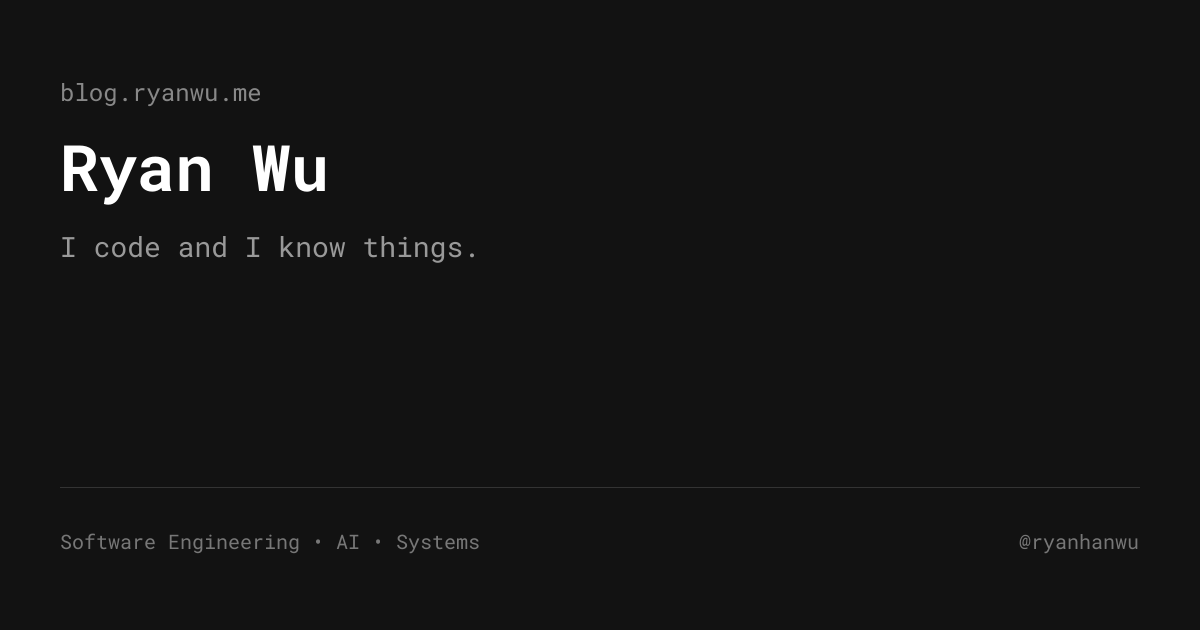
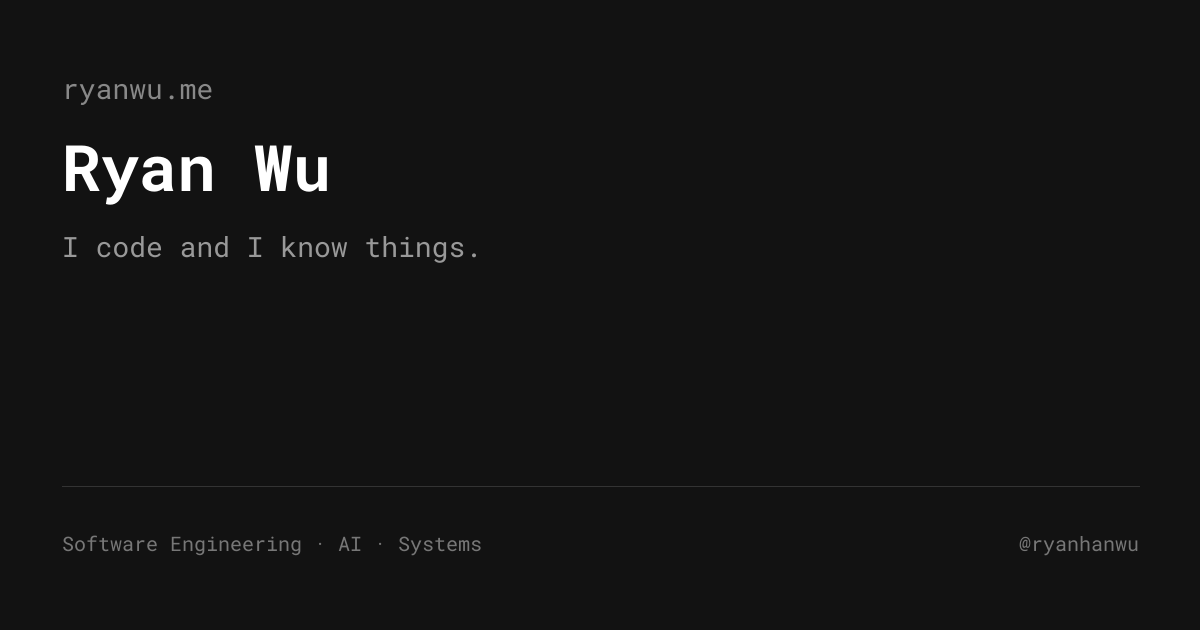
Update the blog domain to ryanwu.me
Canonical URLs, the GitHub Pages CNAME, and social images now use ryanwu.me.

diff --git a/src/pages/og-image/_ogMarkup.ts b/src/pages/og-image/_ogMarkup.ts
@@ -1,6 +1,8 @@
 import { html } from "satori-html";
 import { siteConfig } from "@/site.config";
 
+const siteHost = new URL(siteConfig.url).host;
+
 // OG image markup, use https://og-playground.vercel.app/ to design your own.
 export const ogMarkup = (title: string, pubDate: string) =>
 	html`<div tw="flex flex-col w-full h-full bg-[#121212] text-[#c9cacc] justify-between p-12">
@@ -10,6 +12,6 @@ export const ogMarkup = (title: string, pubDate: string) =>
 		</div>
 		<div tw="flex items-center justify-between w-full pt-8 border-t border-[#333333] text-white">
 			<p tw="text-2xl font-bold tracking-tight">${siteConfig.title}</p>
-			<p tw="text-xl text-[#888888] font-mono">blog.ryanwu.me</p>
+			<p tw="text-xl text-[#888888] font-mono">${siteHost}</p>
 		</div>
 	</div>`;

diff --git a/src/site.config.ts b/src/site.config.ts
@@ -3,7 +3,7 @@ import type { SiteConfig } from "@/types";
 
 export const siteConfig: SiteConfig = {
 	// ! Please remember to replace the following site property with your own domain, used in astro.config.ts
-	url: "https://blog.ryanwu.me/",
+	url: "https://ryanwu.me/",
 	/*
 		- Used to construct the meta title property found in src/components/BaseHead.astro L:11
 		- The webmanifest name found in astro.config.ts L:42

diff --git a/src/pages/og-image/_cacheUtil.ts b/src/pages/og-image/_cacheUtil.ts
@@ -5,7 +5,7 @@ import path from "node:path";
 import { fileURLToPath } from "node:url";
 
 // Update/bump version when changing markup in _ogMarkup.ts, or fonts/config in [...slug].png.ts
-const CACHE_VERSION = "v2";
+const CACHE_VERSION = "v3";
 
 // Cache directory, defaults to node_modules/.astro/og-images
 const CACHE_DIR = path.join(fileURLToPath(cacheDir), "og-images");

diff --git a/README.md b/README.md
@@ -1,6 +1,6 @@
 # Ryan Wu's Blog
 
-[blog.ryanwu.me](https://blog.ryanwu.me/). Astro 7 static site on the
+[ryanwu.me](https://ryanwu.me/). Astro 7 static site on the
 [Cactus](https://github.com/chrismwilliams/astro-theme-cactus) theme.
 Content moved off Hexo. A push to `master` builds with npm and deploys
 to GitHub Pages.
